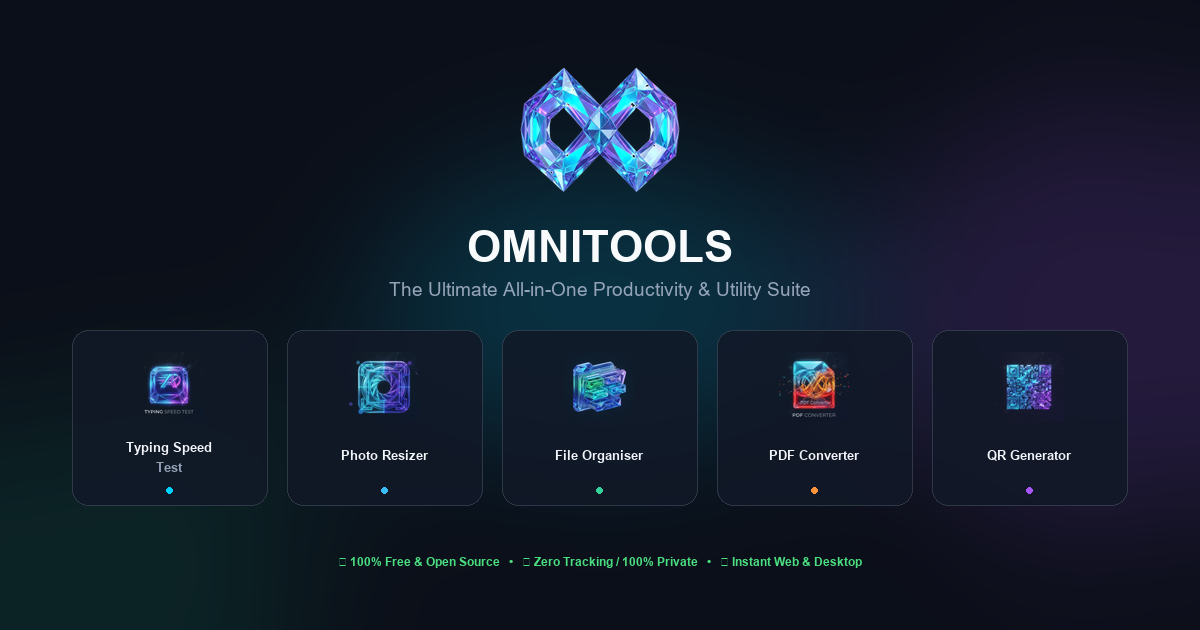
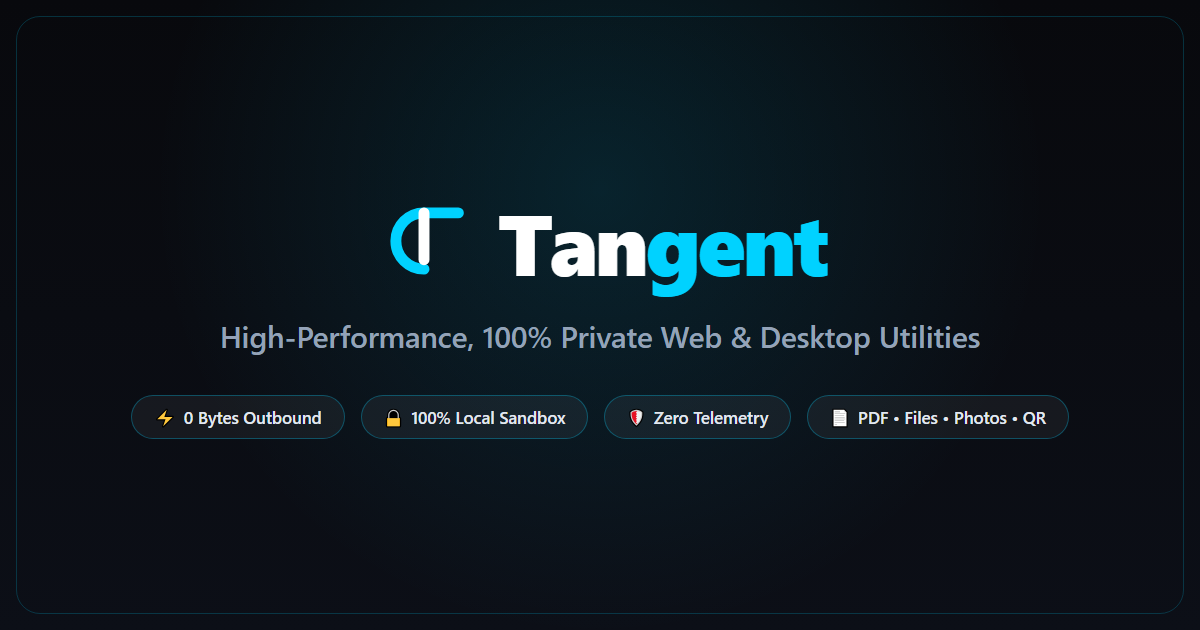
Add files via upload

Changed region(s): [[0.0925, 0.1508, 1.0, 0.8143], [0.4317, 0.0905, 0.5858, 0.3016], [0.2775, 0.8746, 0.7092, 0.9048]]

diff --git a/index.html b/index.html
@@ -6,15 +6,13 @@
 <title>Tangent | High-Performance, Private Web & Desktop Utilities</title>
 <meta name="description" content="A premium collection of client-side tools. Convert, organize, and compress your files with zero server uploads.">
 
-<!-- Favicon & Social Meta Tags -->
-<link rel="icon" type="image/png" href="favicon.png">
 <meta property="og:type" content="website">
 <meta property="og:site_name" content="Tangent">
 <meta property="og:title" content="Tangent | Professional Client-Side Utilities">
 <meta property="og:description" content="Secure, fast, and 100% offline digital utilities. Process PDFs, resize photos, and organize files locally.">
-<meta property="og:image" content="https://misbah-37.github.io/omnitools-web/social-banner.png">
+<meta property="og:image" content="https://misbah-37.github.io/tangent/social-banner.png">
 <meta name="twitter:card" content="summary_large_image">
-<meta name="twitter:image" content="https://misbah-37.github.io/omnitools-web/social-banner.png">
+<meta name="twitter:image" content="https://misbah-37.github.io/tangent/social-banner.png">
 
 <!-- Google Structured Data for the Tangent Suite -->
 <script type="application/ld+json">
@@ -22,7 +20,7 @@
   "@context": "https://schema.org",
   "@type": "WebApplication",
   "name": "Tangent",
-  "url": "https://misbah-37.github.io/omnitools-web/",
+  "url": "https://misbah-37.github.io/tangent/",
   "description": "Fast, private, and 100% client-side digital utilities. Process PDFs, resize photos, generate QR codes, and organize files locally without server uploads.",
   "applicationCategory": "UtilitiesApplication",
   "operatingSystem": "All",
@@ -306,6 +304,10 @@
     .trust-grid { grid-template-columns: 1fr; gap: 32px; }
   }
 </style>
+  <!-- Favicon & Touch Icons with Cache Buster -->
+  <link rel="icon" type="image/png" sizes="64x64" href="favicon.png?v=2">
+  <link rel="icon" type="image/x-icon" href="favicon.ico?v=2">
+  <link rel="apple-touch-icon" href="favicon.png?v=2">
 </head>
 <body>
 
@@ -412,7 +414,7 @@
 <footer class="global-footer">
   <div style="margin-bottom: 16px;">
     <a href="index.html">Home</a>
-    <a href="https://github.com/Misbah-37/omnitools-web" target="_blank" rel="noopener noreferrer">GitHub</a>
+    <a href="https://github.com/Misbah-37/tangent" target="_blank" rel="noopener noreferrer">GitHub</a>
     <a href="#" onclick="window.scrollTo({top: 0, behavior: 'smooth'}); return false;">↑ Back to Top</a>
   </div>
   <div>&copy; 2026 Tangent. Built for speed, privacy, and precision.</div>

diff --git a/pdf-converter.html b/pdf-converter.html
@@ -5,14 +5,13 @@
 <meta name="viewport" content="width=device-width, initial-scale=1.0">
 <title>PDF Suite | Tangent</title>
 <meta name="description" content="Merge, split, extract pages, compress, and convert documents to and from PDF seamlessly. Secure in-browser processing.">
-<link rel="canonical" href="https://misbah-37.github.io/omnitools-web/pdf-converter.html">
+<link rel="canonical" href="https://misbah-37.github.io/tangent/pdf-converter.html">
 <!-- Foundation & Social Meta Tags -->
-<link rel="icon" type="image/png" href="favicon.png">
 <meta property="og:type" content="website">
 <meta property="og:site_name" content="Tangent">
 <meta property="og:title" content="Tangent | Professional Client-Side Utilities">
 <meta property="og:description" content="Secure, fast, and 100% offline digital utilities. Process PDFs, resize photos, and organize files locally.">
-<meta property="og:image" content="https://misbah-37.github.io/omnitools-web/social-banner.png">
+<meta property="og:image" content="https://misbah-37.github.io/tangent/social-banner.png">
 
 <!-- Schema.org FAQ Structured Data -->
 <script type="application/ld+json">
@@ -494,6 +493,10 @@
     .tool-container { padding: 24px 20px; }
   }
 </style>
+  <!-- Favicon & Touch Icons with Cache Buster -->
+  <link rel="icon" type="image/png" sizes="64x64" href="favicon.png?v=2">
+  <link rel="icon" type="image/x-icon" href="favicon.ico?v=2">
+  <link rel="apple-touch-icon" href="favicon.png?v=2">
 </head>
 <body>
 
@@ -1054,7 +1057,7 @@ async function extractText() {
   <footer class="global-footer">
     <div style="margin-bottom: 16px;">
       <a href="index.html">Home</a>
-      <a href="https://github.com/Misbah-37/omnitools-web" target="_blank" rel="noopener noreferrer">GitHub</a>
+      <a href="https://github.com/Misbah-37/tangent" target="_blank" rel="noopener noreferrer">GitHub</a>
       <a href="#" onclick="window.scrollTo({top: 0, behavior: 'smooth'}); return false;">↑ Back to Top</a>
     </div>
     <div>&copy; 2026 Tangent. Built for speed, privacy, and precision.</div>

diff --git a/qr-generator.html b/qr-generator.html
@@ -6,12 +6,11 @@
 <title>QR Generator | Tangent</title>
 <meta name="description" content="Create, customize, and securely download high-quality QR codes from any URL or text. 100% free and fast.">
   <!-- Foundation & Social Meta Tags -->
-<link rel="icon" type="image/png" href="favicon.png">
 <meta property="og:type" content="website">
 <meta property="og:site_name" content="Tangent">
 <meta property="og:title" content="Tangent | Professional Client-Side Utilities">
 <meta property="og:description" content="Secure, fast, and 100% offline digital utilities. Process PDFs, resize photos, and organize files locally.">
-<meta property="og:image" content="https://misbah-37.github.io/omnitools-web/social-banner.png">
+<meta property="og:image" content="https://misbah-37.github.io/tangent/social-banner.png">
 <!-- Schema.org FAQ Structured Data -->
 <script type="application/ld+json">
 {
@@ -405,6 +404,10 @@
     .color-controls { flex-direction: column; gap: 16px; }
   }
 </style>
+  <!-- Favicon & Touch Icons with Cache Buster -->
+  <link rel="icon" type="image/png" sizes="64x64" href="favicon.png?v=2">
+  <link rel="icon" type="image/x-icon" href="favicon.ico?v=2">
+  <link rel="apple-touch-icon" href="favicon.png?v=2">
 </head>
 <body>
 
@@ -569,7 +572,7 @@
   <footer class="global-footer">
     <div style="margin-bottom: 16px;">
       <a href="index.html">Home</a>
-      <a href="https://github.com/Misbah-37/omnitools-web" target="_blank" rel="noopener noreferrer">GitHub</a>
+      <a href="https://github.com/Misbah-37/tangent" target="_blank" rel="noopener noreferrer">GitHub</a>
       <a href="#" onclick="window.scrollTo({top: 0, behavior: 'smooth'}); return false;">↑ Back to Top</a>
     </div>
     <div>&copy; 2026 Tangent. Built for speed, privacy, and precision.</div>

diff --git a/photo-resizer.html b/photo-resizer.html
@@ -6,12 +6,11 @@
 <title>Photo Resizer | Tangent</title>
 <meta name="description" content="Resize, compress, and convert images locally without uploading to any external servers. Secure in-browser processing.">
   <!-- Foundation & Social Meta Tags -->
-<link rel="icon" type="image/png" href="favicon.png">
 <meta property="og:type" content="website">
 <meta property="og:site_name" content="Tangent">
 <meta property="og:title" content="Tangent | Professional Client-Side Utilities">
 <meta property="og:description" content="Secure, fast, and 100% offline digital utilities. Process PDFs, resize photos, and organize files locally.">
-<meta property="og:image" content="https://misbah-37.github.io/omnitools-web/social-banner.png">
+<meta property="og:image" content="https://misbah-37.github.io/tangent/social-banner.png">
 <!-- Schema.org FAQ Structured Data -->
 <script type="application/ld+json">
 {
@@ -423,6 +422,10 @@
     .tool-panel { padding: 24px; }
   }
 </style>
+  <!-- Favicon & Touch Icons with Cache Buster -->
+  <link rel="icon" type="image/png" sizes="64x64" href="favicon.png?v=2">
+  <link rel="icon" type="image/x-icon" href="favicon.ico?v=2">
+  <link rel="apple-touch-icon" href="favicon.png?v=2">
 </head>
 <body>
 
@@ -710,7 +713,7 @@
   <footer class="global-footer">
     <div style="margin-bottom: 16px;">
       <a href="index.html">Home</a>
-      <a href="https://github.com/Misbah-37/omnitools-web" target="_blank" rel="noopener noreferrer">GitHub</a>
+      <a href="https://github.com/Misbah-37/tangent" target="_blank" rel="noopener noreferrer">GitHub</a>
       <a href="#" onclick="window.scrollTo({top: 0, behavior: 'smooth'}); return false;">↑ Back to Top</a>
     </div>
     <div>&copy; 2026 Tangent. Built for speed, privacy, and precision.</div>

diff --git a/typing-test.html b/typing-test.html
@@ -6,12 +6,11 @@
 <title>Typing Speed Test | Tangent</title>
 <meta name="description" content="Test your typing speed and accuracy in real-time. Track your WPM and improve your keyboard skills for free.">
 <!-- Foundation & Social Meta Tags -->
-<link rel="icon" type="image/png" href="favicon.png">
 <meta property="og:type" content="website">
 <meta property="og:site_name" content="Tangent">
 <meta property="og:title" content="Tangent | Professional Client-Side Utilities">
 <meta property="og:description" content="Secure, fast, and 100% offline digital utilities. Process PDFs, resize photos, and organize files locally.">
-<meta property="og:image" content="https://misbah-37.github.io/omnitools-web/social-banner.png">
+<meta property="og:image" content="https://misbah-37.github.io/tangent/social-banner.png">
 <!-- Schema.org FAQ Structured Data -->
 <script type="application/ld+json">
 {
@@ -480,6 +479,10 @@
     .mobile-hint { display: block; }
   }
 </style>
+  <!-- Favicon & Touch Icons with Cache Buster -->
+  <link rel="icon" type="image/png" sizes="64x64" href="favicon.png?v=2">
+  <link rel="icon" type="image/x-icon" href="favicon.ico?v=2">
+  <link rel="apple-touch-icon" href="favicon.png?v=2">
 </head>
 <body>
 
@@ -859,7 +862,7 @@
   <footer class="global-footer">
     <div style="margin-bottom: 16px;">
       <a href="index.html">Home</a>
-      <a href="https://github.com/Misbah-37/omnitools-web" target="_blank" rel="noopener noreferrer">GitHub</a>
+      <a href="https://github.com/Misbah-37/tangent" target="_blank" rel="noopener noreferrer">GitHub</a>
       <a href="#" onclick="window.scrollTo({top: 0, behavior: 'smooth'}); return false;">↑ Back to Top</a>
     </div>
     <div>&copy; 2026 Tangent. Built for speed, privacy, and precision.</div>

diff --git a/file-organizer.html b/file-organizer.html
@@ -14,8 +14,6 @@
 
   <!-- Foundation & Social Meta Tags -->
 
-<link rel="icon" type="image/png" href="favicon.png">
-
 <meta property="og:type" content="website">
 
 <meta property="og:site_name" content="Tangent">
@@ -24,7 +22,7 @@
 
 <meta property="og:description" content="Secure, fast, and 100% offline digital utilities. Process PDFs, resize photos, and organize files locally.">
 
-<meta property="og:image" content="https://misbah-37.github.io/omnitools-web/social-banner.png">
+<meta property="og:image" content="https://misbah-37.github.io/tangent/social-banner.png">
 
 <!-- Schema.org FAQ Structured Data -->
 
@@ -798,6 +796,10 @@
 
 </style>
 
+  <!-- Favicon & Touch Icons with Cache Buster -->
+  <link rel="icon" type="image/png" sizes="64x64" href="favicon.png?v=2">
+  <link rel="icon" type="image/x-icon" href="favicon.ico?v=2">
+  <link rel="apple-touch-icon" href="favicon.png?v=2">
 </head>
 
 <body>
@@ -1172,7 +1174,7 @@
 
     <a href="index.html">Home</a>
 
-    <a href="https://github.com/Misbah-37/omnitools-web" target="_blank" rel="noopener noreferrer">GitHub</a>
+    <a href="https://github.com/Misbah-37/tangent" target="_blank" rel="noopener noreferrer">GitHub</a>
 
     <a href="#" onclick="window.scrollTo({top: 0, behavior: 'smooth'}); return false;">↑ Back to Top</a>
 

diff --git a/README.md b/README.md
@@ -8,7 +8,7 @@
   </p>
 
   <p align="center">
-    <a href="https://misbah-37.github.io/omnitools-web/"><strong>Explore Live Site »</strong></a>
+    <a href="https://misbah-37.github.io/tangent/"><strong>Explore Live Site »</strong></a>
     <br />
     <br />
     <img src="https://img.shields.io/badge/Privacy-100%25%20Client--Side-00d2ff?style=flat-square" alt="Privacy" />
@@ -65,7 +65,7 @@ Simply clone the repository and serve the files locally:
 
 ```bash
 # Clone the repository
-git clone https://github.com/Misbah-37/omnitools-web.git
+git clone https://github.com/Misbah-37/tangent.git
 
 # Navigate to directory
 cd omnitools-web
